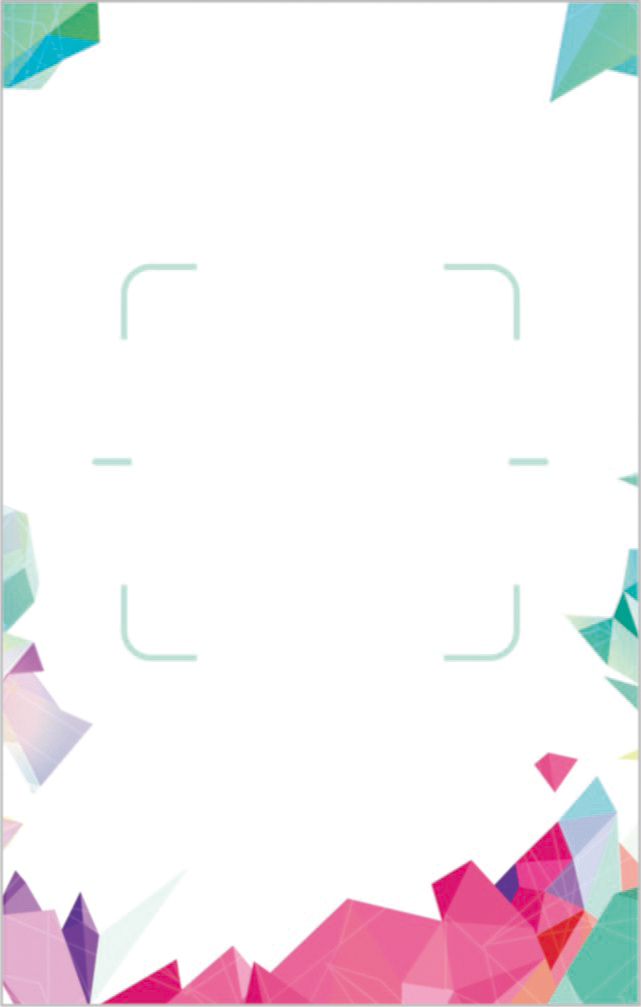
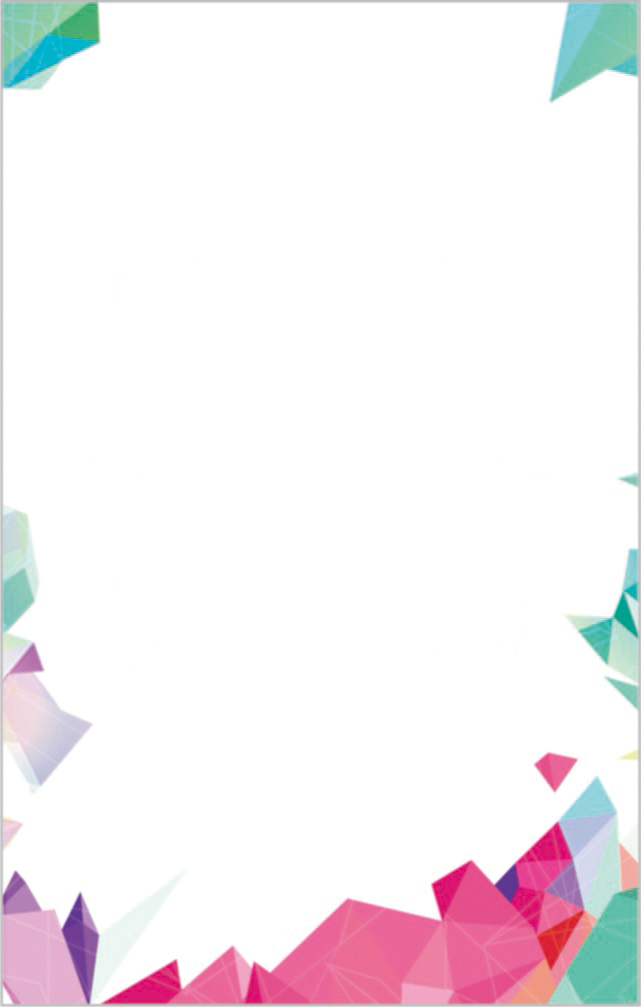
33

diff --git a/canvasTest/index.js b/canvasTest/index.js
@@ -1,11 +1,12 @@
 $(function(){
     drawPreQrCodeImg();
 
-    var currStyle = 1;
-    var rectStyleCtx = $("#rectStyle")[0].getContext("2d");
-    var heartStyleCtx = $("#heartStyle")[0].getContext("2d");
-    var currCanvas = $("#rectStyle")[0];
+    var currStyle = 5;
+    var rectStyleCanvas = $("#rectStyle")[0];
+    var heartStyleCanvas = $("#heartStyle")[0];
+    var currCanvas;
     var currCtx;
+    var tempQrCode = $('#tempQrCode');
 
     $("#testBtn").click(function(){
         var zip = new JSZip();
@@ -15,7 +16,9 @@ $(function(){
             {serialNo : "3344444", qrCodeData : "hdhdh"},
             {serialNo : "445566", qrCodeData : "xncbcb"}];
         var imgData, item;
-        currCtx = currStyle !=5 ? rectStyleCtx : heartStyleCtx;
+        currCanvas = currStyle !=5 ? rectStyleCanvas : heartStyleCanvas;
+        currCtx = currCanvas.getContext("2d");
+
         for(var k=0;k<testData.length;k++){
             item = testData[k];
             imgData = drawCodeStyle(item.serialNo,item.qrCodeData);
@@ -23,8 +26,6 @@ $(function(){
             zip.file(item.serialNo+".png",imgData,{ base64 : true });
             console.log("complete："+k+"--"+item.serialNo);
         }
-        //imgData  = $("#c1")[0].toDataURL("image/png");
-        //console.log(imgData);
         zip.generateAsync({type:"blob"}).then(function (blob) {
             saveAs(blob, "imgs.zip");
         });
@@ -35,6 +36,18 @@ $(function(){
         var h = currCanvas.height;
         currCtx.clearRect(0,0,w,h);
         var copyCanvas;
+
+        currCtx.textAlign = "center";
+        currCtx.textBaseline = "middle";
+
+        tempQrCode.html("");
+        tempQrCode.qrcode({
+            width:390,
+            height:390,
+            text:qrCodeData,
+            roundBlank:false
+        });
+
         if(currStyle == 1){
             copyCanvas = $("#c1")[0];
             currCtx.drawImage(copyCanvas,0,0);
@@ -42,20 +55,55 @@ $(function(){
             ///绘制工号
             currCtx.fillStyle = "#575757";
             currCtx.font = "normal 42px 微软雅黑";
-            currCtx.textAlign = "center";
-            currCtx.textBaseline = "middle";
             currCtx.fillText(serialNo,w/2,290);
 
-            $('#tempQrCode').html("");
-            $('#tempQrCode').qrcode({
-                width:390,
-                height:390,
-                text:qrCodeData,
-                roundBlank:false
-            });
+            currCtx.drawImage(tempQrCode[0].querySelector("canvas"),(w-390)/2,350,390,390);
+        }
+        else if(currStyle == 2){
+            copyCanvas = $("#c2")[0];
+            currCtx.drawImage(copyCanvas,0,0);
 
-            var tempCode = $('#tempQrCode>canvas')[0];
-            currCtx.drawImage(tempCode,(w-390)/2,350,390,390);
+            //////绘制工号
+            currCtx.fillStyle = "#fff";
+            currCtx.font = "italic 42px 微软雅黑";
+             var rectW = Math.floor(currCtx.measureText(serialNo).width)+16;
+            currCtx.fillRect((w-rectW)/2,237,rectW+10,50);
+            currCtx.fillStyle = "#e40080";
+            currCtx.fillText(serialNo,w/2,262);
+
+            currCtx.drawImage(tempQrCode[0].querySelector("canvas"),(w-390)/2,353,390,390);
+        }
+        else if(currStyle == 3){
+            copyCanvas = $("#c3")[0];
+            currCtx.drawImage(copyCanvas,0,0);
+            ////绘制工号
+            currCtx.fillStyle = "#52bca8";
+            currCtx.font = "normal 48px 微软雅黑";
+            currCtx.fillText(serialNo,w/2,h-298);
+
+            currCtx.drawImage(tempQrCode[0].querySelector("canvas"),0,0,390,390,(w-324)/2,300,324,324);
+        }
+        else if(currStyle == 4){
+            copyCanvas = $("#c4")[0];
+            currCtx.drawImage(copyCanvas,0,0);
+
+            ////绘制工号
+            currCtx.fillStyle = "#9e272b";
+            currCtx.font = "normal 48px 微软雅黑";
+            currCtx.fillText(serialNo,w/2,h-275);
+
+            currCtx.drawImage(tempQrCode[0].querySelector("canvas"),(w-390)/2,280,390,390);
+        }
+        else if(currStyle == 5){
+            copyCanvas = $("#c5")[0];
+            currCtx.drawImage(copyCanvas,0,0);
+
+            ////绘制工号
+            currCtx.fillStyle = "rgb(235,200,71)";
+            currCtx.font = "bold 80px 微软雅黑";
+            currCtx.fillText(serialNo,w/2,h-183);
+
+            currCtx.drawImage(tempQrCode[0].querySelector("canvas"),(w-400)/2,238,400,400);
         }
         return currCanvas.toDataURL("image/png")
     }
@@ -66,13 +114,14 @@ $(function(){
         drawSecondCode(w,h);
         drawThirdCode(w,h);
         drawFourthCode(w,h);
+        drawFifthCode();
     }
 
     function drawFirstCode(w,h){ ////绘制样式一
         var c1 = $("#c1")[0].getContext("2d");
-        c1.strokeStyle = "#c5c5c5";
-        c1.lineWidth = 3;
-        c1.strokeRect(0,0,w,h);
+
+        c1.fillStyle="#fff";
+        c1.fillRect(0,0,w,h);
 
         c1.beginPath();
         c1.fillStyle = "#eee";
@@ -134,6 +183,10 @@ $(function(){
          c1.textAlign = "center";
          c1.textBaseline = "middle";
          c1.fillText("小摩豆健康养生会所",w/2,h-141);
+
+        c1.strokeStyle = "#c5c5c5";
+        c1.lineWidth = 3;
+        c1.strokeRect(0,0,w,h);
     }
 
     function drawSecondCode(w,h){
@@ -157,31 +210,11 @@ $(function(){
             c2.stroke();
 
             /////会所名称
-            /*c2.fillStyle = "#5C5C5C";
+            c2.fillStyle = "#5C5C5C";
              c2.font = "normal 32px 微软雅黑";
              c2.textAlign = "center";
              c2.textBaseline = "middle";
              c2.fillText("小摩豆健康养生会所",w/2,h-94);
-
-             //////绘制工号
-             var text = "006号";
-             c2.fillStyle = "#fff";
-             c2.font = "italic 42px 微软雅黑";
-             var rectW = Math.floor(c2.measureText(text).width)+16;
-             c2.fillRect((w-rectW)/2,237,rectW+10,50);
-             c2.fillStyle = "#e40080";
-             c2.fillText(text,w/2,262);
-
-             ////绘制二维码
-             $('#tempQrCode').qrcode({
-             width:390,
-             height:390,
-             text:"http://2321321321/abcde",
-             roundBlank:false
-             });
-
-             var tempCode = $('#tempQrCode>canvas')[0];
-             c2.drawImage(tempCode,(w-390)/2,353,390,390);*/
         }
     }
 
@@ -198,28 +231,50 @@ $(function(){
                 c3.drawImage(img2,(w-400)/2,108);
             }
 
-            /////会所名称
-            /*c3.fillStyle = "#6a6a6a";
-             c3.font = "normal 25px 微软雅黑";
-             c3.textAlign = "center";
-             c3.textBaseline = "middle";
-             c3.fillText("小摩豆健康养生会所", w / 2, h -135);
+            c3.strokeStyle = "#52bca8";
+            c3.lineWidth = 3;
+            c3.lineCap = "round";
 
-             ////绘制工号
-             c3.fillStyle = "#52bca8";
-             c3.font = "normal 48px 微软雅黑";
-             c3.fillText("006号",w/2,h-298);
+            var left = 119, right = w-left, height = 398, top = 264, subWidth = 75, bottom = top+height;
+            c3.beginPath();
+            c3.moveTo(left,top+subWidth);
+            c3.lineTo(left,top+subWidth-51);
+            c3.arcTo(left,top,left+subWidth-51,top,20);
+            c3.lineTo(left+subWidth,top);
 
-             ////绘制二维码
-             $('#tempQrCode').qrcode({
-             width:390,
-             height:390,
-             text:"http://2321321321/abcde",
-             roundBlank:false
-             });
+            c3.moveTo(right,top+subWidth);
+            c3.lineTo(right,top+subWidth-51);
+            c3.arcTo(right,top,right-subWidth+51,top,20);
+            c3.lineTo(right-subWidth,top);
 
-             var tempCode = $('#tempQrCode>canvas')[0];
-             c3.drawImage(tempCode,0,0,390,390,(w-324)/2,300,324,324);*/
+            c3.moveTo(left,bottom-subWidth);
+            c3.lineTo(left,bottom-subWidth+51);
+            c3.arcTo(left,bottom,left+subWidth-51,bottom,20);
+            c3.lineTo(left+subWidth,bottom);
+
+            c3.moveTo(right,bottom-subWidth);
+            c3.lineTo(right,bottom-subWidth+51);
+            c3.arcTo(right,bottom,right-subWidth+51,bottom,20);
+            c3.lineTo(right-subWidth,bottom);
+
+            left = 92;
+            right = w-92;
+            subWidth = 40;
+            top = top+height/2;
+
+            c3.moveTo(left,top);
+            c3.lineTo(left+subWidth,top);
+            c3.moveTo(right,top);
+            c3.lineTo(right-subWidth,top);
+
+            c3.stroke();
+
+            //会所名称
+            c3.fillStyle = "#6a6a6a";
+            c3.font = "normal 25px 微软雅黑";
+            c3.textAlign = "center";
+            c3.textBaseline = "middle";
+            c3.fillText("小摩豆健康养生会所", w / 2, h -135);
         }
     }
 
@@ -242,22 +297,15 @@ $(function(){
             c4.textAlign = "center";
             c4.textBaseline = "middle";
             c4.fillText("小摩豆健康养生会所", w / 2, h - 148);
+        }
+    }
 
-            ////绘制工号
-            c4.fillStyle = "#9e272b";
-            c4.font = "normal 48px 微软雅黑";
-            c4.fillText("006号",w/2,h-275);
-
-            ////绘制二维码
-            $('#tempQrCode').qrcode({
-                width:390,
-                height:390,
-                text:"http://2321321321/abcde",
-                roundBlank:false
-            });
-
-            var tempCode = $('#tempQrCode>canvas')[0];
-            c4.drawImage(tempCode,(w-390)/2,280,390,390);
+    function drawFifthCode(){
+        var c5 = $("#c5")[0].getContext("2d");
+        var img1 = new Image();
+        img1.src = "tech/5-1.png";
+        img1.onload = function(){
+            c5.drawImage(img1, 0, 0);
         }
     }
 });

diff --git a/canvasTest/index.html b/canvasTest/index.html
@@ -13,11 +13,12 @@
 <body>
 <div class="canvasImg">
     <canvas id="rectStyle" width="641" height="1008"></canvas>
-    <canvas id="heartStyle" width="641" height="1008"></canvas>
+    <canvas id="heartStyle" width="945" height="886"></canvas>
     <canvas id="c1" width="641" height="1008"></canvas>
     <canvas id="c2" width="641" height="1008"></canvas>
     <canvas id="c3" width="641" height="1008"></canvas>
     <canvas id="c4" width="641" height="1008"></canvas>
+    <canvas id="c5" width="945" height="886"></canvas>
     <div id="tempQrCode"></div>
 </div>
 <div id="testBtn">test jszip</div>
